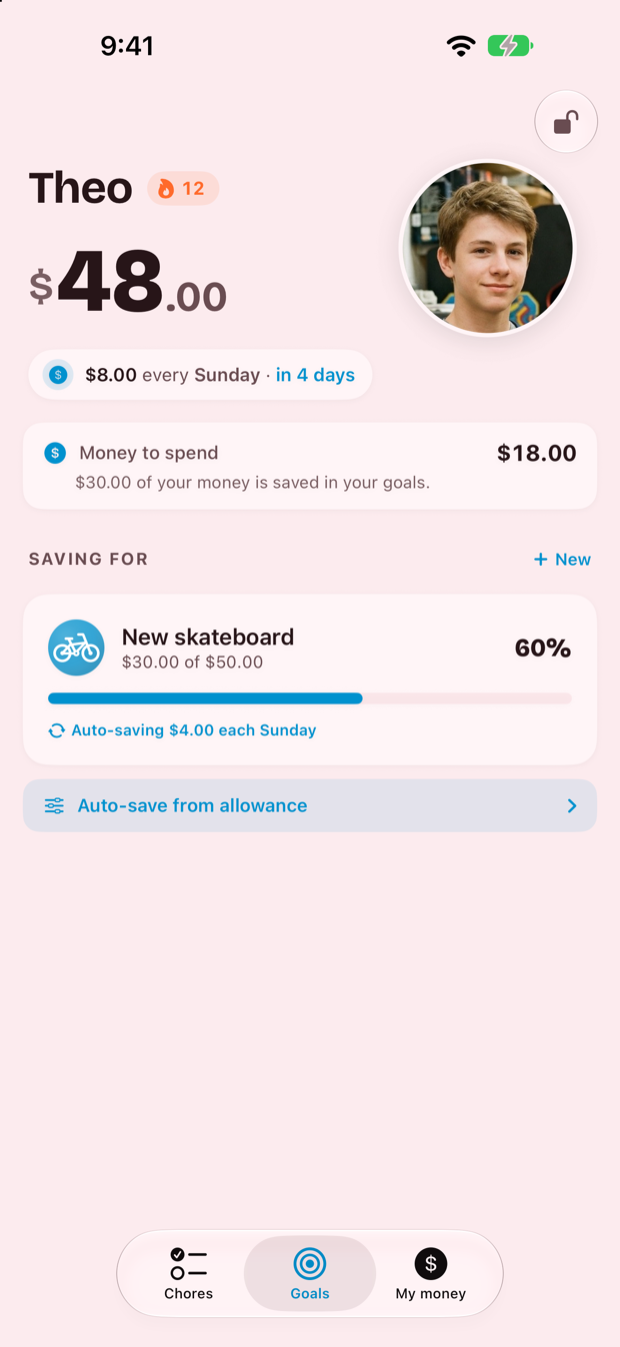
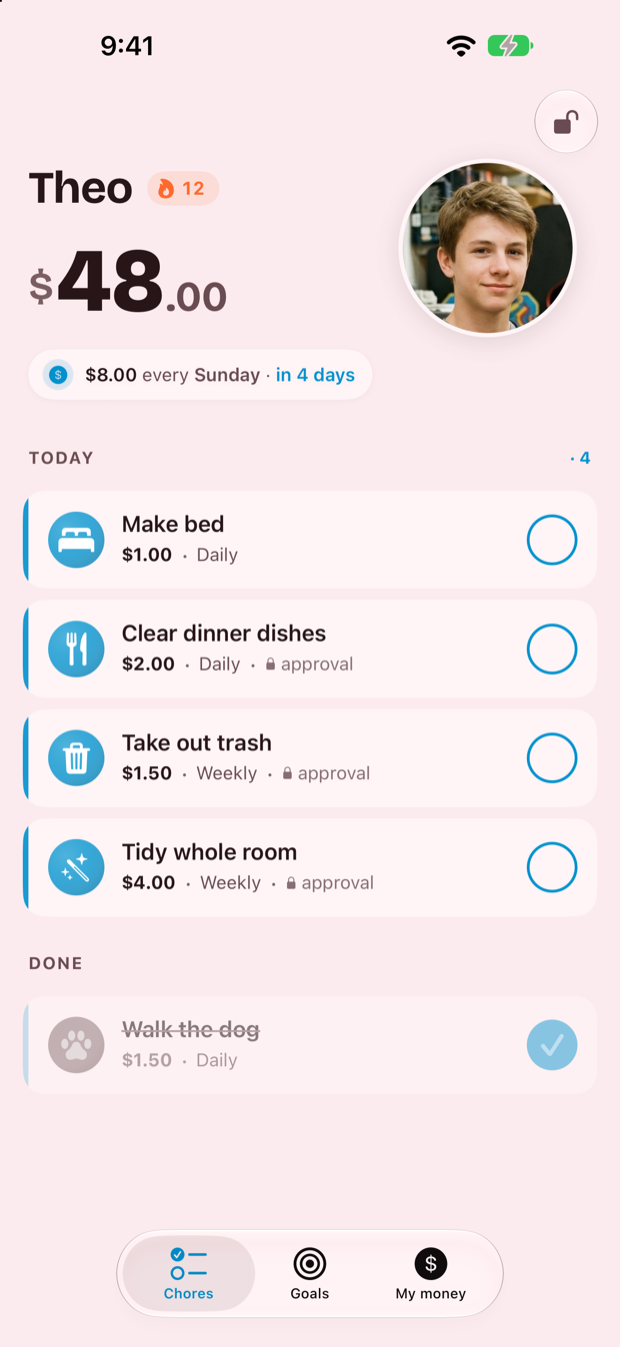
Hero opens on Theo's chores; a cleaner goal crop; the kid's Ask buttons replace Kofi

diff --git a/index.html b/index.html
@@ -209,8 +209,8 @@
 
   <div class="shots">
     <figure>
-      <img src="assets/shot-kid.png" alt="A child's Goals screen in Pig Pal: Theo, with his photo and a $48.00 balance, $8.00 allowance every Sunday, $18.00 money to spend, and a New skateboard goal at $30.00 of $50.00, auto-saving $4.00 each Sunday.">
-      <figcaption>What a kid sees: money to spend, and what they're saving for.</figcaption>
+      <img src="assets/shot-kid.png" alt="A child's Chores screen in Pig Pal: Theo, with his photo, a 12-day streak and a $48.00 balance, $8.00 allowance every Sunday, and today's chores: Make bed $1.00, Clear dinner dishes $2.00, Take out trash $1.50 and Tidy whole room $4.00, three of them needing approval. Walk the dog is done.">
+      <figcaption>What a kid sees: today's chores, and what each one pays.</figcaption>
     </figure>
     <figure>
       <img src="assets/shot-parent.png" alt="The Family screen in Pig Pal, a parent's home: cards for Finn, Theo, Wren and Mina with their photos, balances, streaks, chores left today and quick plus and minus buttons, and below them two requests waiting: $20.00 of birthday money Mina wants to add, and a $4.00 sticker book Theo wants to buy.">
@@ -250,23 +250,16 @@
         <p>A kid picks something worth saving for and puts money toward it — or lets part of
           their allowance save itself every week. Saved money stays apart from money to spend,
           so the skateboard fund doesn't quietly turn into sweets.</p>
-        <img src="assets/detail-goal.png" width="1260" height="930"
-          alt="Theo's savings in Pig Pal: $18.00 money to spend with $30.00 saved in goals, a New skateboard goal at $30.00 of $50.00, 60 percent, auto-saving $4.00 each Sunday, and a row to set up auto-save from allowance.">
-      </div>
-      <div class="detail">
-        <h3>Today's list, with a price on it</h3>
-        <p>Every chore carries what it pays and how often it comes round. Tick one off and it's
-          done — unless it's marked <em>approval</em>, which holds it until a parent looks.</p>
-        <img src="assets/detail-chores.png" width="1260" height="535"
-          alt="A child's chore list in Pig Pal: Make bed $1.00 daily, and Clear dinner dishes $2.00 daily needing approval, each with a circle to tick.">
+        <img src="assets/detail-goal.png" width="1260" height="500"
+          alt="A savings goal in Pig Pal: New skateboard, $30.00 of $50.00, 60 percent, auto-saving $4.00 each Sunday.">
       </div>
       <div class="detail">
         <h3>Nothing moves until you say so</h3>
-        <p>Ticked chores — and anything a kid wants to spend on — wait for a parent. One tap says
-          yes and the money moves; the other sends it back. Allowance is the one exception: pick
-          an amount and a day and it arrives on its own.</p>
-        <img src="assets/detail-approve.png" width="1260" height="1170"
-          alt="Kofi's page on a parent's phone in Pig Pal: his photo and a $48.00 balance, Add and Subtract buttons, and under Waiting for you, a $4.00 sticker book at the bookstore he wants to buy, with a cross and a tick button.">
+        <p>Ticked chores wait for a parent, and so does anything a kid asks for — birthday money
+          to add, or something to buy. One tap says yes and the money moves; the other sends it
+          back. Allowance is the one exception: pick an amount and a day and it arrives on its own.</p>
+        <img src="assets/detail-ask.png" width="1260" height="345"
+          alt="Two buttons on a child's My money screen in Pig Pal: Ask to add money, and Ask to buy something.">
       </div>
     </div>
 

diff --git a/BRIEF.md b/BRIEF.md
@@ -155,13 +155,12 @@ the backup is replaced.
 
 | File | What it is |
 |---|---|
-| `shot-kid.png` | Kid's Goals screen (Theo). Also the `og:image`. 620px wide. |
+| `shot-kid.png` | Kid's Chores screen (Theo). Also the `og:image`. 620px wide. |
 | `shot-parent.png` | The Family screen (Finn, Theo, Wren, Mina), requests waiting below. 620px wide. |
 | `shot-ask.png` | Mina's page on the parent's phone, a request to add birthday money waiting. 620px wide. |
 | `detail-rewards.png` | Crop: the three reward cards (Finn, Wren), status bar cut off. 620px wide. |
-| `detail-goal.png` | Crop: money to spend and a savings goal with auto-save. |
-| `detail-chores.png` | Crop: today's chores, one marked approval. |
-| `detail-approve.png` | Crop: a kid's page on the parent's phone (Kofi) with a request waiting. |
+| `detail-goal.png` | Crop: one savings goal card with auto-save (Theo). |
+| `detail-ask.png` | Crop: the kid's Ask to add money / Ask to buy something buttons (Mina's My money). |
 | `shot-gate.png`, `shot-gate-ipad.png` | Old gate captures. Not used; the iPad one is for when iPad ships. |
 
 Phone shots are resized to 620px wide, with no Dynamic Island: shown without a device frame, the
@@ -170,9 +169,8 @@ screenshots; older captures had it filled with the status-bar pink. Crops are cu
 full-resolution captures (1320×2868) and left at that scale. The captures live in
 `PigPay/incoming/website/2026-11-11 build 66/`.
 
-The site shows one household through most of the story (Finn, Theo, Wren), with Mina and Kofi
-from two other families. Keep it to a few coherent families rather than
-a different family in every screenshot — a lineup reads as staged.
+The site shows one household all the way through: Finn, Theo, Wren and Mina. Keep it that way
+rather than a different family in every screenshot — a lineup reads as staged.
 
 ## Regenerating the screenshots
 
@@ -192,8 +190,7 @@ How the family was staged: hammer menu ▸ **Skip** loads the demo family (Maya,
 with the app stopped, rewrite the `pigpay:v1` blob through `simctl spawn … defaults` — rename to
 Finn, Theo, Wren, add Mina (`k_mina`, a copy of Theo's history), point `photoFilename` at faces
 copied into `Documents/KidPhotos/` — and set `subscriptionTier` to `family` plus
-`pigpay:dev.tierOverride` so nothing shows a lock. Kofi's crop came from a one-kid copy of the
-same blob. Override the status bar first (`simctl status_bar … --time 9:41 --batteryLevel 100`).
+`pigpay:dev.tierOverride` so nothing shows a lock. Override the status bar first (`simctl status_bar … --time 9:41 --batteryLevel 100`).
 The harness never saves, so edits made in it don't stick. After the first launch the simulator
 often renders blank: reboot it before each capture.
 
